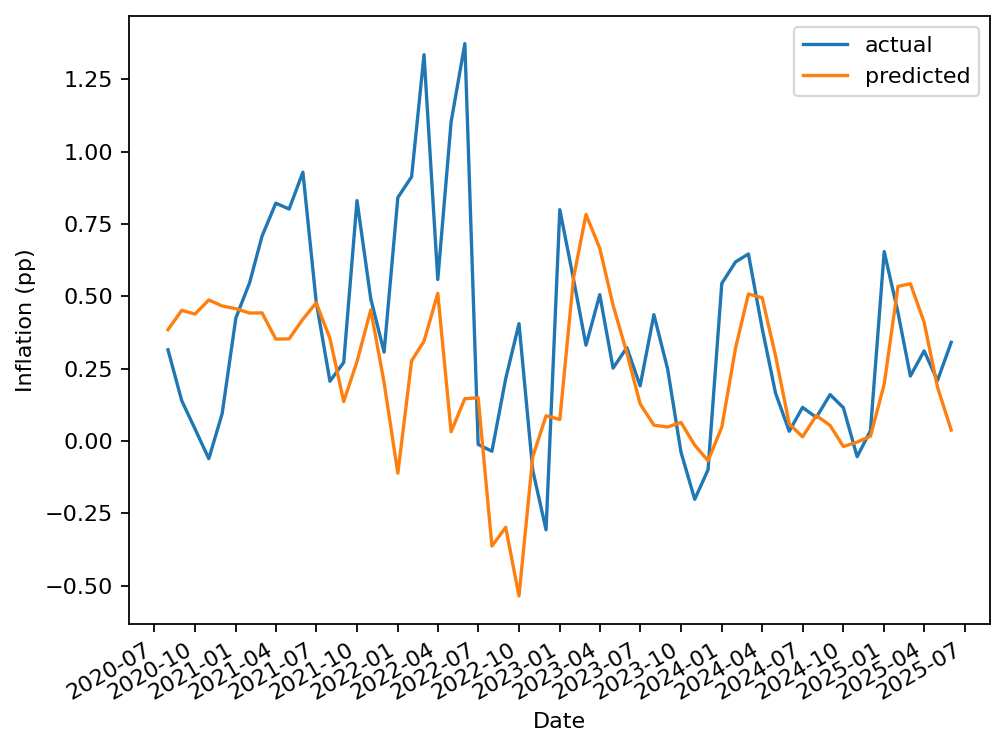
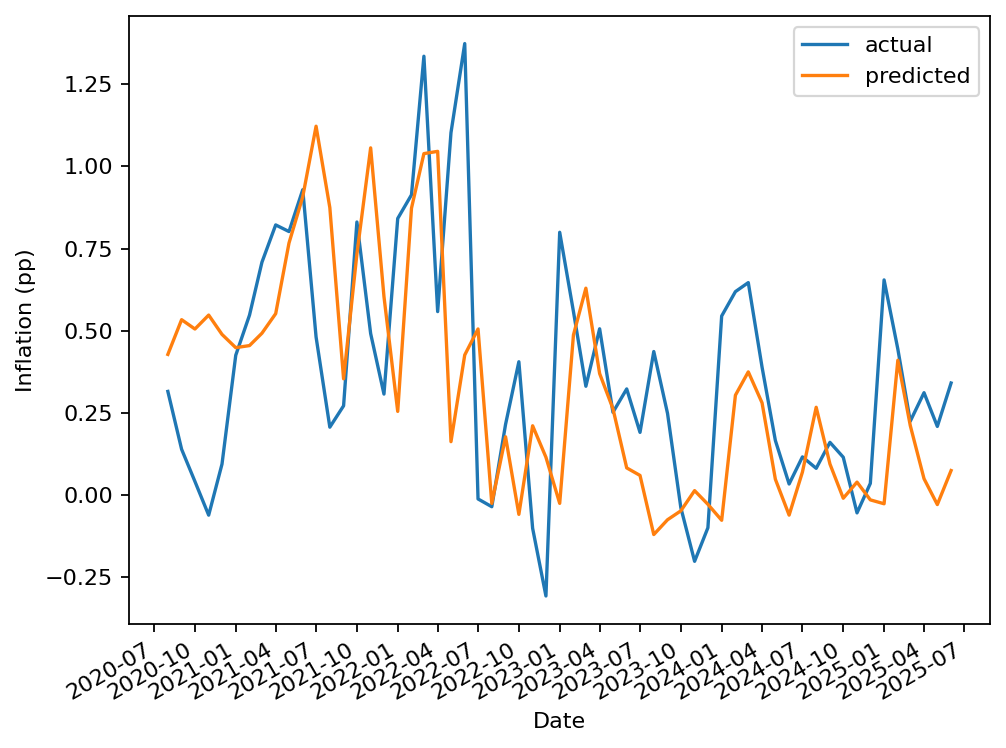
Tried GRU intead of LSTM

diff --git a/src/model.py b/src/model.py
@@ -1,7 +1,7 @@
 # src/model.py
 from tensorflow.keras.models import Sequential
 from tensorflow.keras import Input
-from tensorflow.keras.layers import LSTM, Dense
+from tensorflow.keras.layers import LSTM, Dense, GRU
 from tensorflow.keras.callbacks import EarlyStopping, ReduceLROnPlateau
 from tensorflow.keras.optimizers import Adam
 import numpy as np
@@ -10,8 +10,8 @@ from .config import LR, EPOCHS, BATCH_SIZE, PATIENCE, MIN_LR
 def build_model(n_lags, n_features):
     model = Sequential([
         Input(shape=(n_lags, n_features)),
-        LSTM(256, dropout=0.1, return_sequences=True),
-        LSTM(128, dropout=0.1),
+        GRU(256, dropout=0.1, return_sequences=True),
+        GRU(128, dropout=0.1),
         Dense(64, activation="relu"),
         Dense(1)
     ])
